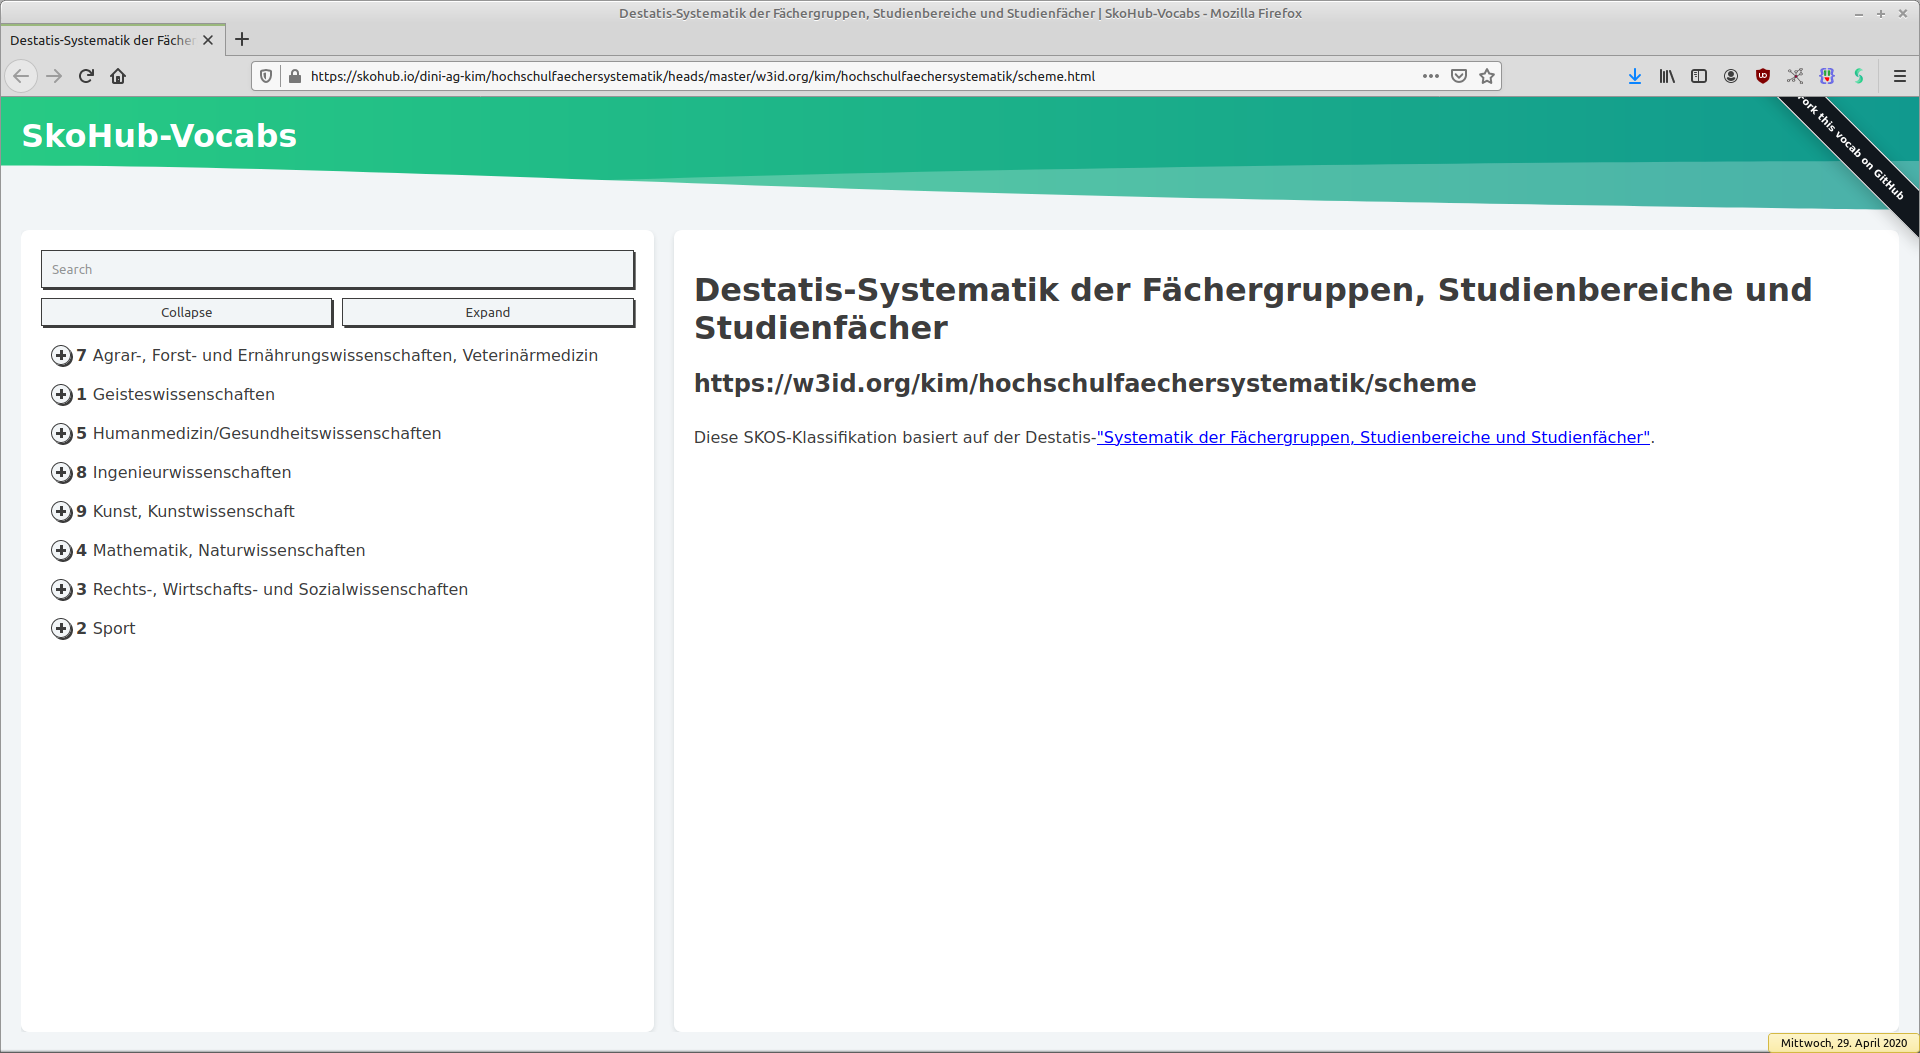
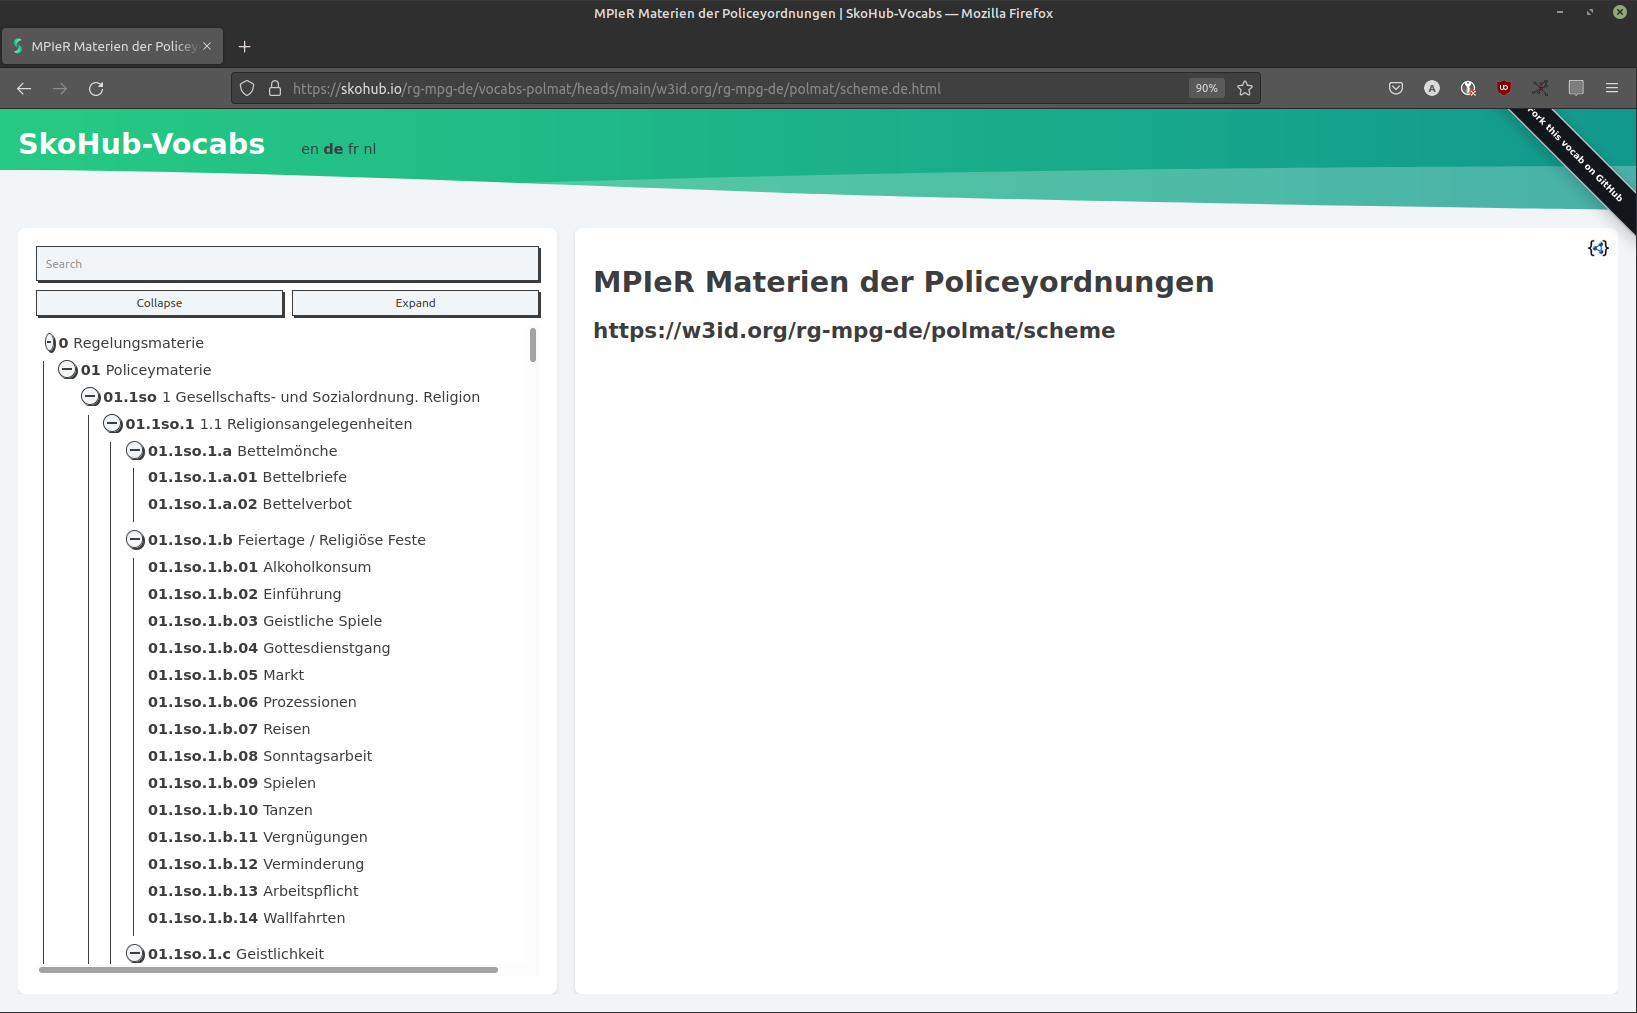
Use SkoHub vocabs example from history

Changed region(s): [[0.0, 0.2448, 0.9346, 0.9793], [0.0, 0.0, 1.0, 1.0], [0.0, 0.9793, 0.0312, 1.0]]

diff --git a/2022-halle-reconcile/index.html b/2022-halle-reconcile/index.html
@@ -194,18 +194,18 @@
 				<h2>Einfache Nutzung ermöglichen</h2>
 				<p><span class="fragment">Rechercheoberfläche und Browsing: gutes UI/UX für Menschen</span></p>
 				<p><span class="fragment">Entwickler:innen und Anwendungen: intuitive, offene, standardbasierte APIs</span></p>
-				<p><span class="fragment">Standards: HTTP, HTML, JSON-LD, SKOS (Simple Knowledge Organization System)</span></p>
+				<p><span class="fragment">Standards: HTTP, HTML, JSON-LD, <a href="https://dini-ag-kim.github.io/skos-einfuehrung">SKOS</a> (Simple Knowledge Organization System)</span></p>
 			</section>
 
 			<section>
 				<h2>SkoHub Vocabs</h2>
-				<p><span class="fragment">Publikation von kontrollierten Vokabularen im web</span></p>
-				<p><span class="fragment">Pflege als Turtle-Datei auf GitHub und Publikation als HTML/JSON-LD unter skohub.io (siehe <a href="http://blog.lobid.org/2019/09/27/presenting-skohub-vocabs.html">hier</a> für Details)</span></p>
-				<p><span class="fragment">Hier: Nutzung einer skosifizierten Destatis-Systematik</span></p>
+				<p><span class="fragment">Publikation von in SKOS kodierten kontrollierten Vokabularen im Web</span></p>
+				<p><span class="fragment">Pflege als Turtle-Datei auf GitHub und Publikation als HTML/JSON-LD a) auf eigenem Server b) <a href="https://pad.gwdg.de/p/einfuehrung-in-skos-mit-skohub#/39">mit Docker und GitHub Pages</a> c) <a href="http://blog.lobid.org/2019/09/27/presenting-skohub-vocabs.html">via skohub.io</a></span></p>
+				<p><span class="fragment">Hier: Nutzung einer SKOS-ifizierten Taxonomie der Gegenstände frühneuzeitlicher Policeygesetze</span></p>
 			</section>
 	
 			<section>
-				<a href="https://github.com/dini-ag-kim/hochschulfaechersystematik/blob/master/hochschulfaechersystematik.ttl"><img src="img/vocab-ttl.png" width=700 style="border: none; box-shadow: none;" /></a>
+				<a href="https://github.com/rhonda-org/vocabs-polmat/blob/main/polmat.ttl"><img src="img/vocab-ttl.png" width=700 style="border: none; box-shadow: none;" /></a>
 			</section>
 
 			<section>
@@ -440,7 +440,7 @@
 			
 			<section data-state="fabian">
 				<h2>1. Einzeldatensätze im Web verfügbar machen</h2>
-				<span class="fragment"><p>Dann schon nutzbar in OpenRefine: Daten per URL holen (z.B. skohub-vocabs: <a href="https://skohub.io/hbz/vocabs-edu/heads/master/w3id.org/class/esc/n0322.en.html">HTML</a>, <a href="https://skohub.io/hbz/vocabs-edu/heads/master/w3id.org/class/esc/n0322.json">JSON</a>)</p></span>
+				<span class="fragment"><p>Dann schon nutzbar in OpenRefine: Daten per URL holen (z.B. skohub-vocabs: <a href="https://skohub.io/rg-mpg-de/vocabs-polmat/heads/main/w3id.org/rg-mpg-de/polmat/n01.1so.5.d.de.html">HTML</a>, <a href="https://skohub.io/rg-mpg-de/vocabs-polmat/heads/main/w3id.org/rg-mpg-de/polmat/n01.1so.5.d.json">JSON</a>)</p></span>
 				<span class="fragment"><p>Die Daten können wir dann zum Anreichern nutzen</p></span>
 			</section>
 
@@ -459,7 +459,7 @@
 			<section data-state="fabian">
 				<h2>2. Suche nach Datensätzen implementieren</h2>
 				<span class="fragment"><p>d.h. Indexierung der Daten in Suchmaschine, z.B. Elasticsearch, Solr, Lucene</p></span>
-				<span class="fragment"><p>je nach Kontext und Technologie kann der Index zentral verwaltet als Cluster oder im Browser eingebettet sein (z.B. <a href="https://skohub.io/hbz/vocabs-edu/heads/master/w3id.org/class/esc/scheme.en.html">skohub-vocabs</a>)</p></span>
+				<span class="fragment"><p>je nach Kontext und Technologie kann der Index zentral verwaltet als Cluster oder im Browser (z.B. SkoHub Vocabs) eingebettet sein</p></span>
 			</section>
 
 		<!--https://hbz.github.io/elag2019-bootcamp/-->
@@ -499,6 +499,7 @@
 				<p><a href="https://docs.openrefine.org/">OpenRefine user manual</a></p>
 				<p><a href="https://lobid.org/gnd/reconcile">GND reconciliation for OpenRefine</a></p>
 				<p><a href="https:/skohub.io">SkoHub</a> & <a href="https://github.com/rg-mpg-de/skohub-reconcile">skohub-reconcile</a></p>
+				<p><a href="https://pad.gwdg.de/p/einfuehrung-in-skos-mit-skohub">Eine Einführung in SKOS mit SkoHub Vocabs (Folien)</a></p>
 			</section>
 			
 		</div>
